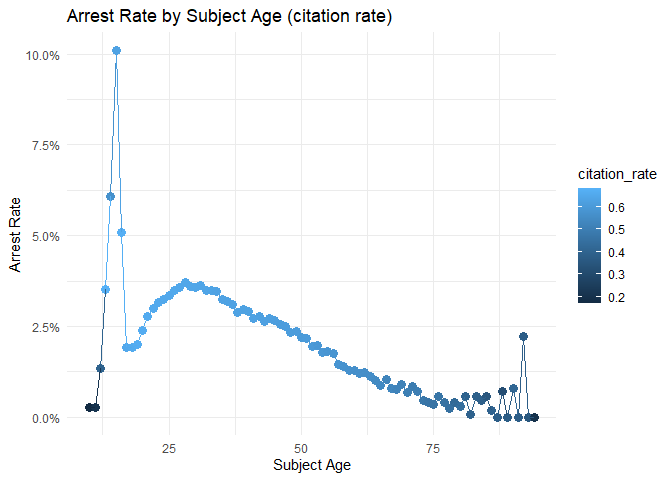
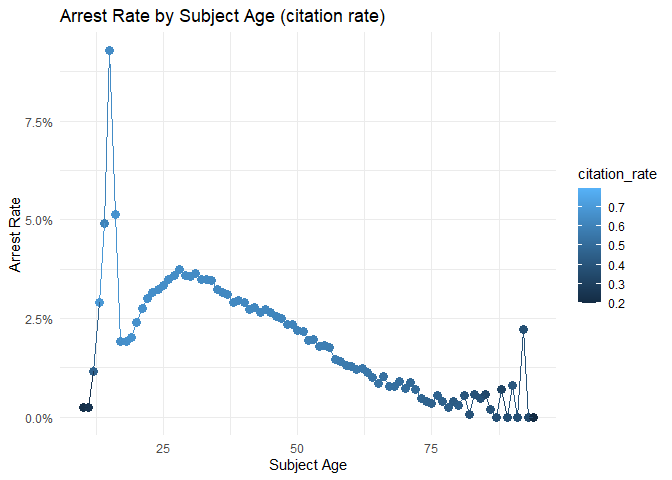
Resubmit C12

diff --git a/challenges/c12-policing-assignment.md b/challenges/c12-policing-assignment.md
@@ -282,6 +282,11 @@ summary(df_data$subject_race)
   - Strictly speaking, there are no overlaps as it appears that they are
     not the same data type. `raw_Race` is a string vector, while
     `subject_race` is a factor vector
+  - Content wise, the overlaps include `white`, `black`, `hispanic`,
+    `Asian/Pacific Islander`. We can also consider `NA` to overlap. It
+    is possible that `unknown` and
+    `None - for no operator present citations only` are an overlap as
+    well.
 - What is the difference between the two sets?
   - They are different data types. Furthermore, it appears that
     `raw_Race` contains additional information, such as “Middle Eastern
@@ -364,13 +369,9 @@ df_data
 # remove NA values
 df_dataCleaned <- 
   df_data %>% 
-  filter(!is.na(subject_age),
-         !is.na(arrest_made), 
-         !is.na(subject_sex), 
-         !is.na(subject_race), 
-         !is.na(vehicle_type))
+  filter(!is.na(subject_sex))
 # Graph Arrest Rate by Subject Age (color by warning rate)
-df_dataCleaned %>% 
+df_data %>% 
   group_by(subject_age) %>%
   summarise(arrest_rate = mean(arrest_made, na.rm = TRUE),
             warning_rate = mean(warning_issued, na.rm = TRUE)) %>%
@@ -384,11 +385,17 @@ df_dataCleaned %>%
   theme_minimal()
 ```
 
+    ## Warning: Removed 1 row containing missing values or values outside the scale range
+    ## (`geom_point()`).
+
+    ## Warning: Removed 1 row containing missing values or values outside the scale range
+    ## (`geom_line()`).
+
 ![](c12-policing-assignment_files/figure-gfm/unnamed-chunk-3-1.png)<!-- -->
 
 ``` r
 # Graph Arrest Rate by Subject Age (color by citation rate )
-df_dataCleaned %>% 
+df_data %>% 
   group_by(subject_age) %>%
   summarise(arrest_rate = mean(arrest_made, na.rm = TRUE),
             citation_rate = mean(citation_issued, na.rm = TRUE)) %>%
@@ -402,11 +409,16 @@ df_dataCleaned %>%
   theme_minimal()
 ```
 
+    ## Warning: Removed 1 row containing missing values or values outside the scale range
+    ## (`geom_point()`).
+    ## Removed 1 row containing missing values or values outside the scale range
+    ## (`geom_line()`).
+
 ![](c12-policing-assignment_files/figure-gfm/unnamed-chunk-3-2.png)<!-- -->
 
 ``` r
 # Graph Arrest Rate by Subject Age (color by subject sex )
-df_dataCleaned %>% 
+df_data %>% 
   group_by(subject_age, subject_sex) %>%
   summarise(arrest_rate = mean(arrest_made, na.rm = TRUE), .groups = "drop") %>%
   ggplot(aes(x = subject_age, y = arrest_rate, color = subject_sex)) +
@@ -419,11 +431,17 @@ df_dataCleaned %>%
   theme_minimal()
 ```
 
+    ## Warning: Removed 3 rows containing missing values or values outside the scale range
+    ## (`geom_point()`).
+
+    ## Warning: Removed 3 rows containing missing values or values outside the scale range
+    ## (`geom_line()`).
+
 ![](c12-policing-assignment_files/figure-gfm/unnamed-chunk-3-3.png)<!-- -->
 
 ``` r
 # Graph Arrest Rate by Subject Age (tacet by vehicle type)
-df_dataCleaned %>% 
+df_data %>% 
   group_by(subject_age, vehicle_type) %>% 
   summarise(arrest_rate = mean(arrest_made, na.rm = TRUE), .groups = "drop") %>%
   
@@ -437,11 +455,16 @@ df_dataCleaned %>%
   facet_wrap(~vehicle_type, nrow = 1)
 ```
 
+    ## Warning: Removed 8 rows containing missing values or values outside the scale range
+    ## (`geom_point()`).
+    ## Removed 3 rows containing missing values or values outside the scale range
+    ## (`geom_line()`).
+
 ![](c12-policing-assignment_files/figure-gfm/unnamed-chunk-3-4.png)<!-- -->
 
 ``` r
 # Graph Age distribution of car stops
-df_dataCleaned %>% 
+df_data %>% 
   ggplot(aes(x = subject_age)) +
   geom_bar(fill = "steelblue") +
   labs(title = "Arrest Rate by Subject Age",
@@ -449,11 +472,14 @@ df_dataCleaned %>%
        y = "Arrest Rate")
 ```
 
+    ## Warning: Removed 158006 rows containing non-finite outside the scale range
+    ## (`stat_count()`).
+
 ![](c12-policing-assignment_files/figure-gfm/unnamed-chunk-3-5.png)<!-- -->
 
 ``` r
 # Finding the "spike"
-spike_data <- df_dataCleaned %>%
+spike_data <- df_data %>%
   group_by(subject_age) %>%
   summarise(
     total_stops = n(),                   
@@ -470,16 +496,16 @@ head(spike_data, 10)
     ## # A tibble: 10 × 4
     ##    subject_age total_stops total_arrests arrest_rate
     ##          <int>       <int>         <int>       <dbl>
-    ##  1          15         436            44      0.101 
-    ##  2          14         247            15      0.0607
-    ##  3          16        2040           104      0.0510
-    ##  4          28      102960          3834      0.0372
-    ##  5          31       86263          3135      0.0363
-    ##  6          29       97369          3507      0.0360
-    ##  7          27      107536          3849      0.0358
-    ##  8          30       92495          3292      0.0356
-    ##  9          13         170             6      0.0353
-    ## 10          26      114406          4002      0.0350
+    ##  1          15         474            44     0.0928 
+    ##  2          16        2049           105     0.0512 
+    ##  3          14         306            15     0.0490 
+    ##  4          13         206             6     0.0291 
+    ##  5          92          45             1     0.0222 
+    ##  6          59       28280           367     0.0130 
+    ##  7          12         262             3     0.0115 
+    ##  8          66       12936           134     0.0104 
+    ##  9          65       14819           127     0.00857
+    ## 10          90         125             1     0.008
 
 - How does `arrest_rate` tend to vary with `subject_age`?
   - The Arrest Rate vs Subject Age has two peaks.
@@ -489,7 +515,7 @@ head(spike_data, 10)
     the extreme ages have higher warning rates). Additionally, the
     sample size at this age group is very small. Thus, even a single
     arrest may change the percentage drastically. For reference, there
-    are ~436 15-year olds stopped, while there are ~2040 16-year olds
+    are ~474 15-year olds stopped, while there are ~2049 16-year olds
     stopped. Only 44 15 year-olds were arrested, while 105 16-year olds
     were arrested. However, because of the sample size difference, the
     percentage is much bigger.
@@ -532,7 +558,7 @@ df_dataCleaned %>%
 
 ``` r
 # Contraband drugs
-df_dataCleaned %>% 
+df_data %>% 
   filter(subject_race != "unknown") %>% 
   group_by(subject_race) %>% 
   summarise(arrest_rate = mean(arrest_made, na.rm = TRUE),
@@ -548,7 +574,7 @@ df_dataCleaned %>%
 
 ``` r
 # Contraband weapons
-df_dataCleaned %>% 
+df_data %>% 
   filter(subject_race != "unknown") %>% 
   group_by(subject_race) %>% 
   summarise(arrest_rate = mean(arrest_made, na.rm = TRUE),
@@ -564,7 +590,7 @@ df_dataCleaned %>%
 
 ``` r
 # Contraband found
-df_dataCleaned %>% 
+df_data %>% 
   filter(subject_race != "unknown") %>% 
   group_by(subject_race) %>% 
   summarise(arrest_rate = mean(arrest_made, na.rm = TRUE),
@@ -580,7 +606,7 @@ df_dataCleaned %>%
 
 ``` r
 # Graph Age distribution of car stops
-df_dataCleaned %>% 
+df_data %>% 
   filter(subject_race != "unknown") %>% 
   ggplot(aes(x = subject_race)) +
   geom_bar() +
